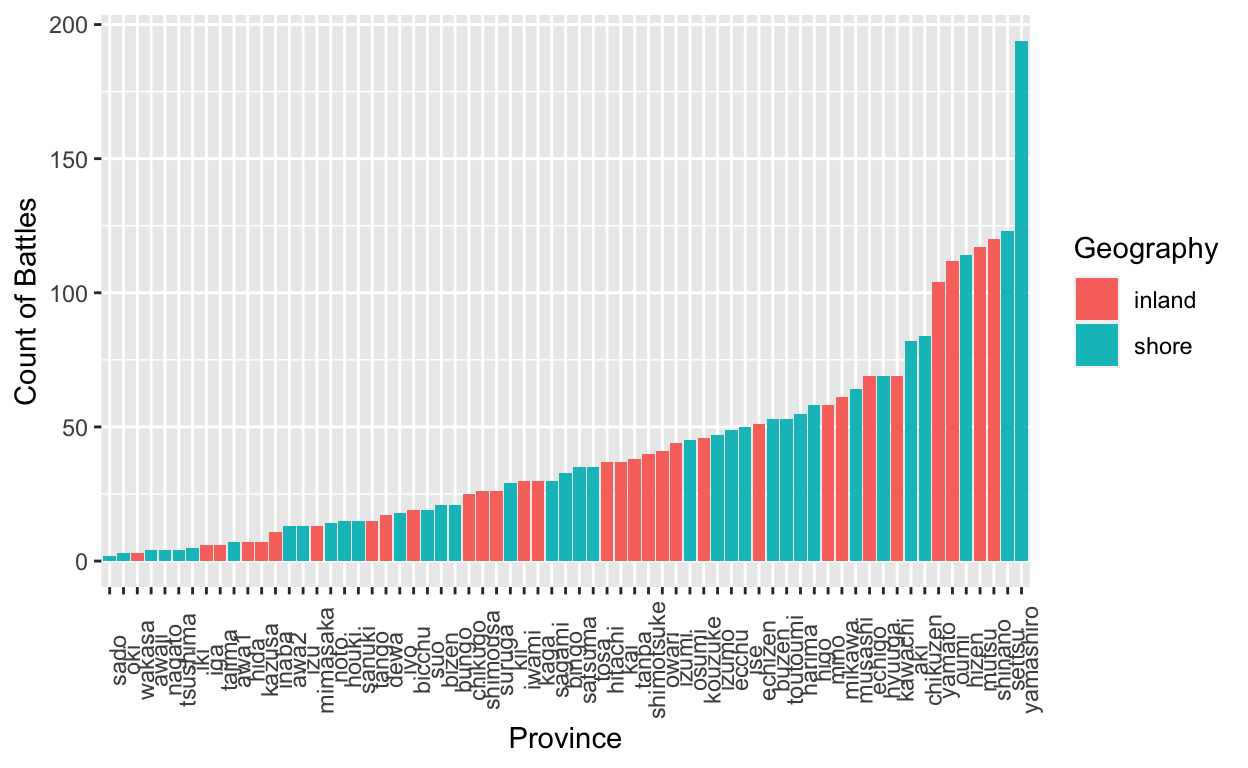
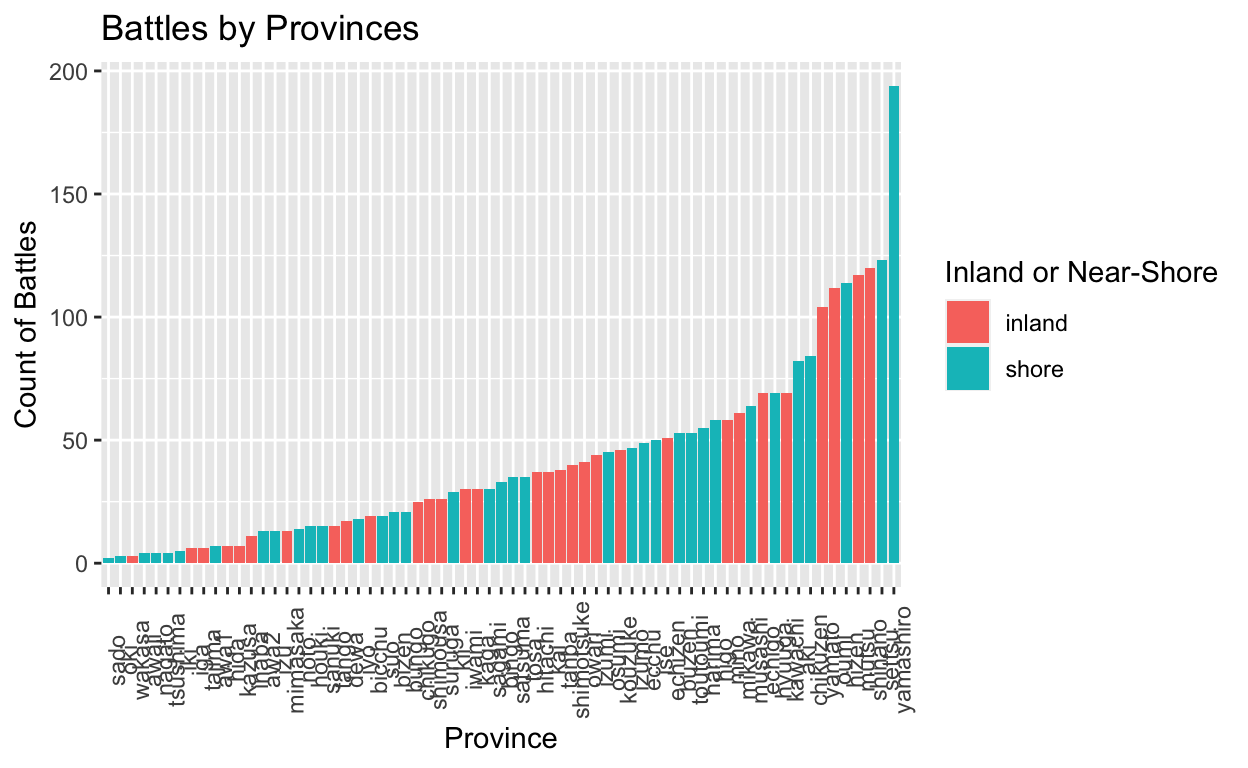
h

Changed region(s): [[0.0, 0.0, 0.9688, 1.0]]

diff --git a/index.html b/index.html
@@ -1543,15 +1543,16 @@ code span.wa { color: #5e5e5e; font-style: italic; } /* Warning */
 </div>
 
 <div class="d-article">
-<h2 id="project-overview">Project Overview</h2>
+<h2 id="introduction">Introduction</h2>
 <p>I use the data from this study:</p>
 <p>Nicholas D. Anderson, “Introducing the Warring States Japan Battle Data,” International Interactions, Latest articles (2022) <a href="https://doi.org/10.1080/03050629.2023.2149514" class="uri">https://doi.org/10.1080/03050629.2023.2149514</a></p>
-<p>My key research question is: How did geographic features and recent conflicts in adjacent provinces influence battle strategies and outcomes in Japan’s Warring States period?</p>
-<p>My hypothesis is that provinces’ geographic characteristics (terrain ruggedness, purely inland or near shore, adjacency to recently conflicted areas), could have influenced strategies (use of cavalries) and outcomes (number of casualties).</p>
+<p>My key research question is:
+How did geographic features and recent conflicts in adjacent provinces influence battle strategies and outcomes in Japan’s Warring States period?</p>
+<p>My hypothesis is that provinces’ geographic characteristics (terrain ruggedness, purely inland or near shore, adjacency to recently conflicted areas), could have influenced strategies (use of cavalries) and outcomes of battles (number of casualties).</p>
 <p>This is important as it provides insights into how geography and regional conflict dynamics influenced historical warfare.</p>
-<p>My study is cross-sectional, as it analyzes data collected from a specific point in time (1467 - 1600) without manipulating the environment, and does not have any intervention or treatment.
-I assume this is typical in the study of history, when we are dealing with pre-modern historical data.</p>
-<p>I am combining three datasets from the same study to conduct my regression tests.
+<p>My study is cross-sectional, as it analyzes data collected from a specific point in time (1467 - 1600) without manipulating the environment or provide any intervention or treatment across time.
+I assume this is typical in the field of history, especially for scholars dealing with pre-modern historical data.</p>
+<p>I am combining three datasets collected by the same scholar in his research to conduct my regressions.
 These are the pre-existing variables I am going to mainly look at.</p>
 <table>
 <colgroup>
@@ -1660,7 +1661,7 @@ Such is the limitation of digital humanities (or, if you count history as social
 <p>Therefore, we need to first look at the data, do some cleaning (I am converting several variables into binary variables), before attempting at any regression.</p>
 <p><strong>Descriptive: Getting familiar with Japan’s Warring State Battles</strong></p>
 <ol type="1">
-<li><em>Inland or Near-Shore</em></li>
+<li><em>Geography: Inland or Near-Shore</em></li>
 </ol>
 <p>I am now interested about whether battles took place more often in purely inland provinces or near-shore provinces.</p>
 <p>I am curious about this because of Japan’s geographical feature as an archipelago.
@@ -1694,9 +1695,10 @@ I therefore wonder if we can see a significant difference in the total number of
 <span>  <span class='fu'><a href='https://dplyr.tidyverse.org/reference/summarise.html'>summarise</a></span><span class='op'>(</span>count <span class='op'>=</span> <span class='fu'><a href='https://dplyr.tidyverse.org/reference/context.html'>n</a></span><span class='op'>(</span><span class='op'>)</span><span class='op'>)</span> <span class='op'>|&gt;</span></span>
 <span>  <span class='fu'><a href='https://dplyr.tidyverse.org/reference/top_n.html'>top_n</a></span><span class='op'>(</span><span class='fl'>10</span>, <span class='va'>count</span><span class='op'>)</span> <span class='op'>|&gt;</span></span>
 <span>  <span class='fu'><a href='https://dplyr.tidyverse.org/reference/arrange.html'>arrange</a></span><span class='op'>(</span><span class='fu'><a href='https://dplyr.tidyverse.org/reference/desc.html'>desc</a></span><span class='op'>(</span><span class='va'>count</span><span class='op'>)</span><span class='op'>)</span> </span>
-<span><span class='fu'>knitr</span><span class='fu'>::</span><span class='fu'><a href='https://rdrr.io/pkg/knitr/man/kable.html'>kable</a></span><span class='op'>(</span><span class='va'>tb_most_battle_provinces</span>, title <span class='op'>=</span> <span class='st'>"provinces where the most battles took place"</span><span class='op'>)</span></span></code></pre>
+<span><span class='fu'>knitr</span><span class='fu'>::</span><span class='fu'><a href='https://rdrr.io/pkg/knitr/man/kable.html'>kable</a></span><span class='op'>(</span><span class='va'>tb_most_battle_provinces</span>, caption <span class='op'>=</span> <span class='st'>"provinces where the most battles took place"</span><span class='op'>)</span></span></code></pre>
 </div>
 <table>
+<caption><span id="tab:unnamed-chunk-4">Table 1: </span>provinces where the most battles took place</caption>
 <thead>
 <tr class="header">
 <th style="text-align: left;">province_name</th>
@@ -1755,7 +1757,6 @@ I therefore wonder if we can see a significant difference in the total number of
 </tbody>
 </table>
 </div>
-From least to most, where did the battles take place?
 <div class="layout-chunk" data-layout="l-body">
 <div class="sourceCode">
 <pre class="sourceCode r"><code class="sourceCode r"><span><span class='va'>plot_provinces</span> <span class='op'>&lt;-</span> <span class='va'>warringstate</span> <span class='op'>|&gt;</span></span>
@@ -1765,7 +1766,7 @@ From least to most, where did the battles take place?
 <span>  <span class='fu'><a href='https://dplyr.tidyverse.org/reference/arrange.html'>arrange</a></span><span class='op'>(</span><span class='fu'><a href='https://dplyr.tidyverse.org/reference/desc.html'>desc</a></span><span class='op'>(</span><span class='va'>count</span><span class='op'>)</span><span class='op'>)</span> <span class='op'>|&gt;</span></span>
 <span>  <span class='fu'><a href='https://ggplot2.tidyverse.org/reference/ggplot.html'>ggplot</a></span><span class='op'>(</span><span class='fu'><a href='https://ggplot2.tidyverse.org/reference/aes.html'>aes</a></span><span class='op'>(</span>x <span class='op'>=</span> <span class='fu'><a href='https://rdrr.io/r/stats/reorder.factor.html'>reorder</a></span><span class='op'>(</span><span class='va'>province_name</span>, <span class='va'>count</span><span class='op'>)</span>, y <span class='op'>=</span> <span class='va'>count</span>, fill <span class='op'>=</span> <span class='va'>geography</span><span class='op'>)</span><span class='op'>)</span> <span class='op'>+</span></span>
 <span>  <span class='fu'><a href='https://ggplot2.tidyverse.org/reference/geom_bar.html'>geom_bar</a></span><span class='op'>(</span>stat <span class='op'>=</span> <span class='st'>"identity"</span>, binwidth <span class='op'>=</span> <span class='fl'>1</span><span class='op'>)</span> <span class='op'>+</span></span>
-<span>  <span class='fu'><a href='https://ggplot2.tidyverse.org/reference/labs.html'>labs</a></span><span class='op'>(</span>x <span class='op'>=</span> <span class='st'>"Province"</span>, y <span class='op'>=</span> <span class='st'>"Count of Battles"</span>, fill <span class='op'>=</span> <span class='st'>"Geography"</span><span class='op'>)</span> <span class='op'>+</span></span>
+<span>  <span class='fu'><a href='https://ggplot2.tidyverse.org/reference/labs.html'>labs</a></span><span class='op'>(</span>x <span class='op'>=</span> <span class='st'>"Province"</span>, y <span class='op'>=</span> <span class='st'>"Count of Battles"</span>, fill <span class='op'>=</span> <span class='st'>"Inland or Near-Shore"</span>, title <span class='op'>=</span> <span class='st'>"Battles by Provinces"</span><span class='op'>)</span> <span class='op'>+</span></span>
 <span>  <span class='fu'><a href='https://ggplot2.tidyverse.org/reference/theme.html'>theme</a></span><span class='op'>(</span>axis.text.x <span class='op'>=</span> <span class='fu'><a href='https://ggplot2.tidyverse.org/reference/element.html'>element_text</a></span><span class='op'>(</span>angle <span class='op'>=</span> <span class='fl'>90</span>, hjust <span class='op'>=</span> <span class='fl'>0.5</span><span class='op'>)</span><span class='op'>)</span></span>
 <span></span>
 <span><span class='va'>plot_provinces</span></span></code></pre>
@@ -1774,14 +1775,15 @@ From least to most, where did the battles take place?
 </div>
 <div class="layout-chunk" data-layout="l-body">
 <div class="sourceCode">
-<pre class="sourceCode r"><code class="sourceCode r"><span><span class='co'>#count the total number of battles in inland provinces and shore provinces}</span></span>
+<pre class="sourceCode r"><code class="sourceCode r"><span><span class='co'>#count the total number of battles in inland provinces and shore provinces</span></span>
 <span><span class='va'>tb_inlandshore</span> <span class='op'>&lt;-</span> <span class='va'>warringstate</span> <span class='op'>|&gt;</span></span>
 <span>  <span class='fu'><a href='https://dplyr.tidyverse.org/reference/group_by.html'>group_by</a></span><span class='op'>(</span><span class='va'>geography</span><span class='op'>)</span> <span class='op'>|&gt;</span></span>
 <span>  <span class='fu'><a href='https://dplyr.tidyverse.org/reference/count.html'>count</a></span><span class='op'>(</span><span class='op'>)</span> <span class='op'>|&gt;</span></span>
 <span>  <span class='fu'><a href='https://tidyr.tidyverse.org/reference/drop_na.html'>drop_na</a></span><span class='op'>(</span><span class='op'>)</span></span>
-<span><span class='fu'>knitr</span><span class='fu'>::</span><span class='fu'><a href='https://rdrr.io/pkg/knitr/man/kable.html'>kable</a></span><span class='op'>(</span><span class='va'>tb_inlandshore</span><span class='op'>)</span></span></code></pre>
+<span><span class='fu'>knitr</span><span class='fu'>::</span><span class='fu'><a href='https://rdrr.io/pkg/knitr/man/kable.html'>kable</a></span><span class='op'>(</span><span class='va'>tb_inlandshore</span>, caption <span class='op'>=</span> <span class='st'>"no. of battles in inland vs shore provinces"</span><span class='op'>)</span></span></code></pre>
 </div>
 <table>
+<caption><span id="tab:unnamed-chunk-6">Table 2: </span>no. of battles in inland vs shore provinces</caption>
 <thead>
 <tr class="header">
 <th style="text-align: left;">geography</th>
@@ -1818,9 +1820,9 @@ From least to most, where did the battles take place?
 <p>We see a significant rise in numbers of battles after the 1550s, and the number of battles peaking at around 1580s, both in inland provinces and shore provinces.</p>
 <p>We also see a much higher number of shore-province battles in the beginning of the warring state period, which may be an indicator that by then, these battles were not so politically charged but simply out of necessity–for resources, which, in the case of premodern Japan, mostly came from the sea.</p>
 <p>It may also be reflect the development of warring technologies from the 1467s to the 1500s, which results in a proportional rise in inland battles.</p>
-<p><em>Side Note: I decided to not use the area plot to demonstrate the proportions because there are 124 battles which took place in provinces unknown (aka, geography = NA). Although the number is comparatively small, and should not significantly impact the general trends as shown here in these smoothed-lines, they do play a role if I were to make an area plot with the y-axis being 1.)</em></p>
+<p><em>Side Note: I decided to not use the area plot to demonstrate the proportions because there are 124 battles which took place in provinces unknown (aka, geography = NA). Although the number is comparatively small, and should not significantly impact the general trends as shown here in these smoothed-lines, they do play a role if I were to make an area plot with the y-axis being 1.</em></p>
 <ol start="2" type="1">
-<li><em>Technical advancement in battle: Cavalry</em></li>
+<li><em>Cavalry</em></li>
 </ol>
 <p>Let’s look at the dataset and see how to extract the information whether a battle has cavalry involved.</p>
 <div class="layout-chunk" data-layout="l-body">
@@ -1830,7 +1832,7 @@ From least to most, where did the battles take place?
 <span><span class='fu'>knitr</span><span class='fu'>::</span><span class='fu'><a href='https://rdrr.io/pkg/knitr/man/kable.html'>kable</a></span><span class='op'>(</span><span class='va'>forces_data_type</span>, caption <span class='op'>=</span> <span class='st'>"Examples of Types of Forces Data"</span><span class='op'>)</span></span></code></pre>
 </div>
 <table>
-<caption><span id="tab:unnamed-chunk-7">Table 1: </span>Examples of Types of Forces Data</caption>
+<caption><span id="tab:unnamed-chunk-7">Table 3: </span>Examples of Types of Forces Data</caption>
 <thead>
 <tr class="header">
 <th style="text-align: left;">x</th>
@@ -1858,9 +1860,8 @@ From least to most, where did the battles take place?
 </tbody>
 </table>
 </div>
-<p>We can see that this variable is categorical, with a diversity of information.
-We are mainly interested in those that has “cavalry” involved here.</p>
-<p>I am using the “str_detect” function to create a new variable <code>cavalry</code> denoting whether a battle has cavalry involved, as well as <code>cavalryA</code>, whether side A has cavalry, and <code>cavalryB</code>, whether side B uses cavalry.</p>
+<p>We can see that the forces variables (<code>forcesA</code> and <code>forcesB</code>) are categorical, and consist of a myriad of information.
+Since we are most interested in those that has “cavalry” involved here, I use the “str_detect” function to create a new variable <code>cavalry</code> denoting whether a battle has cavalry involved, as well as <code>cavalryA</code>, whether side A has cavalry, and <code>cavalryB</code>, whether side B uses cavalry.</p>
 <div class="layout-chunk" data-layout="l-body">
 <div class="sourceCode">
 <pre class="sourceCode r"><code class="sourceCode r"><span><span class='co'>#extracting information about cavalry involved</span></span>
@@ -1872,9 +1873,10 @@ We are mainly interested in those that has “cavalry” involved here.</p>
 <span><span class='co'>#counting the number of cavalry involved battles in total</span></span>
 <span><span class='va'>cavalrytotal</span> <span class='op'>&lt;-</span> <span class='va'>warringstate</span> <span class='op'>|&gt;</span></span>
 <span>  <span class='fu'><a href='https://dplyr.tidyverse.org/reference/count.html'>count</a></span><span class='op'>(</span><span class='va'>cavalry</span> <span class='op'>==</span> <span class='fl'>1</span><span class='op'>)</span></span>
-<span><span class='fu'>knitr</span><span class='fu'>::</span><span class='fu'><a href='https://rdrr.io/pkg/knitr/man/kable.html'>kable</a></span><span class='op'>(</span><span class='va'>cavalrytotal</span><span class='op'>)</span></span></code></pre>
+<span><span class='fu'>knitr</span><span class='fu'>::</span><span class='fu'><a href='https://rdrr.io/pkg/knitr/man/kable.html'>kable</a></span><span class='op'>(</span><span class='va'>cavalrytotal</span>, caption <span class='op'>=</span> <span class='st'>"Cavalry Involvement (TRUE = No. of Cavalry-involved Battle)"</span><span class='op'>)</span></span></code></pre>
 </div>
 <table>
+<caption><span id="tab:unnamed-chunk-8">Table 4: </span>Cavalry Involvement (TRUE = No. of Cavalry-involved Battle)</caption>
 <thead>
 <tr class="header">
 <th style="text-align: left;">cavalry == 1</th>
@@ -1897,7 +1899,7 @@ We are mainly interested in those that has “cavalry” involved here.</p>
 </tbody>
 </table>
 <div class="sourceCode">
-<pre class="sourceCode r"><code class="sourceCode r"><span><span class='co'>#plotting the total number of cavalry battles</span></span>
+<pre class="sourceCode r"><code class="sourceCode r"><span><span class='co'>#plotting the number of cavalry battles over years</span></span>
 <span><span class='va'>cavalry_battle</span> <span class='op'>&lt;-</span> <span class='va'>warringstate</span> <span class='op'>|&gt;</span></span>
 <span>  <span class='fu'><a href='https://dplyr.tidyverse.org/reference/filter.html'>filter</a></span><span class='op'>(</span><span class='va'>cavalry</span> <span class='op'>==</span> <span class='fl'>1</span><span class='op'>)</span> <span class='op'>|&gt;</span></span>
 <span>  <span class='fu'><a href='https://dplyr.tidyverse.org/reference/group_by.html'>group_by</a></span><span class='op'>(</span><span class='va'>year</span><span class='op'>)</span><span class='op'>|&gt;</span></span>
@@ -1906,7 +1908,7 @@ We are mainly interested in those that has “cavalry” involved here.</p>
 <span>  <span class='fu'><a href='https://ggplot2.tidyverse.org/reference/geom_point.html'>geom_point</a></span><span class='op'>(</span><span class='op'>)</span> <span class='op'>+</span></span>
 <span>  <span class='fu'><a href='https://ggplot2.tidyverse.org/reference/geom_smooth.html'>geom_smooth</a></span><span class='op'>(</span>na.rm <span class='op'>=</span> <span class='cn'>FALSE</span><span class='op'>)</span> <span class='op'>+</span></span>
 <span>    <span class='fu'><a href='https://ggplot2.tidyverse.org/reference/labs.html'>labs</a></span><span class='op'>(</span></span>
-<span>    title <span class='op'>=</span> <span class='st'>"Number of Cavalry Battles"</span>,</span>
+<span>    title <span class='op'>=</span> <span class='st'>"Number of Cavalry Battles over Years"</span>,</span>
 <span>    x <span class='op'>=</span> <span class='st'>"Year"</span>,</span>
 <span>    y <span class='op'>=</span> <span class='st'>"No. of Cavalry Battles"</span></span>
 <span>  <span class='op'>)</span></span>
@@ -1942,18 +1944,93 @@ We are mainly interested in those that has “cavalry” involved here.</p>
 </div>
 <p>Analysis:</p>
 <p>The proportion of cavalry battles is so small over all recorded years, which makes me less confident to interpret the first “number of cavalry battles over years” plot as precisely representative of the history.</p>
-<p>However, the smooth line in the proportion plot is indicative of the general trend of cavalry use over the years.
-The observation of the sharp rise in cavalry proportion from the 1467s to the 1500s, matches with our assumption that the rise in cavalry……</p>
+<p>The smooth line in the proportion plot is indicative of the general trend of cavalry use over the years.
+The observation of the sharp rise in cavalry proportion from the 1467s to the 1500s, matches with our assumption that the rise in cavalry may be correlated to the rise in land battle proportion among all battles.
+Nevertheless, we must realize that most of the battles recorded here, we simply DON’T KNOW whether they had cavalries involved or not. This is a fundamental limitation to half of my research question.</p>
 <p><strong>Regression</strong></p>
 <p><em>#Cavalry and recent battle with adjacent province</em></p>
-<p>Here I look at the usage of cavalry’s relationship to whether there had been recent battle with adjacent provinces, holding constant confounders such as <code>year</code>, the number of <code>neighbors</code> (how many neighboring provinces was this province adjacent to.)</p>
-<p>In his paper, Anderson explains, “<code>adjacent_battle</code> simply indicates whether a province sharing a land border with a given province experienced conflict within the past 24 months; <code>road_battle</code> adds the condition that this adjacent province also shares a major road with the province in question.” (Anderson, 7)</p>
+<p>Here I look at the usage of cavalry’s relationship to the geographical features of a battlefield (terrain ruggedness, shore or inland), and whether there had been recent battle with adjacent provinces, holding constant confounders such as <code>year</code>, and the number of <code>neighbors</code> (how many neighboring provinces was this province adjacent to.)</p>
+<p>In his paper, Anderson explains, “<code>adjacent_battle</code> simply indicates whether a province sharing a land border with a given province experienced conflict within the past 24 months; <code>road_battle</code> adds the condition that this adjacent province also shares a major road with the province in question.” (Anderson, 7) Since adjacent_battle would always include all road_battles, I am not so concerned about road battles here.</p>
+Note, one of the independent variable here, <code>geography</code>, is a two-level categorical variable.
+When calculated in the regression model, R is helping me converting it into a binary, dummy variable.
+As you can identify from the printed regression outputs, it is calculated based on the assumption that shore = 1, and inland = 0.
 <div class="layout-chunk" data-layout="l-body">
 <div class="sourceCode">
-<pre class="sourceCode r"><code class="sourceCode r"><span><span class='va'>lm_cavalry</span> <span class='op'>&lt;-</span> </span>
+<pre class="sourceCode r"><code class="sourceCode r"><span><span class='va'>lm_cavalry1</span> <span class='op'>&lt;-</span></span>
+<span>  <span class='fu'><a href='https://rdrr.io/r/stats/lm.html'>lm</a></span><span class='op'>(</span><span class='va'>cavalry</span> <span class='op'>~</span> <span class='va'>terrain_ruggedness</span> <span class='op'>+</span> <span class='va'>geography</span>, data <span class='op'>=</span> <span class='va'>warringstate</span><span class='op'>)</span></span>
+<span></span>
+<span><span class='fu'><a href='https://generics.r-lib.org/reference/tidy.html'>tidy</a></span><span class='op'>(</span><span class='va'>lm_cavalry1</span><span class='op'>)</span> <span class='op'>|&gt;</span> </span>
+<span>  <span class='fu'>knitr</span><span class='fu'>::</span><span class='fu'><a href='https://rdrr.io/pkg/knitr/man/kable.html'>kable</a></span><span class='op'>(</span>digits <span class='op'>=</span> <span class='fl'>3</span><span class='op'>)</span></span></code></pre>
+</div>
+<table>
+<thead>
+<tr class="header">
+<th style="text-align: left;">term</th>
+<th style="text-align: right;">estimate</th>
+<th style="text-align: right;">std.error</th>
+<th style="text-align: right;">statistic</th>
+<th style="text-align: right;">p.value</th>
+</tr>
+</thead>
+<tbody>
+<tr class="odd">
+<td style="text-align: left;">(Intercept)</td>
+<td style="text-align: right;">0.267</td>
+<td style="text-align: right;">0.165</td>
+<td style="text-align: right;">1.621</td>
+<td style="text-align: right;">0.109</td>
+</tr>
+<tr class="even">
+<td style="text-align: left;">terrain_ruggedness</td>
+<td style="text-align: right;">-0.001</td>
+<td style="text-align: right;">0.001</td>
+<td style="text-align: right;">-0.902</td>
+<td style="text-align: right;">0.370</td>
+</tr>
+<tr class="odd">
+<td style="text-align: left;">geographyshore</td>
+<td style="text-align: right;">0.221</td>
+<td style="text-align: right;">0.103</td>
+<td style="text-align: right;">2.154</td>
+<td style="text-align: right;">0.034</td>
+</tr>
+</tbody>
+</table>
+<div class="sourceCode">
+<pre class="sourceCode r"><code class="sourceCode r"><span><span class='fu'><a href='https://rdrr.io/r/base/summary.html'>summary</a></span><span class='op'>(</span><span class='va'>lm_cavalry1</span><span class='op'>)</span></span></code></pre>
+</div>
+<pre><code>
+Call:
+lm(formula = cavalry ~ terrain_ruggedness + geography, data = warringstate)
+
+Residuals:
+    Min      1Q  Median      3Q     Max 
+-0.3866 -0.3591 -0.1616  0.5969  0.8743 
+
+Coefficients:
+                     Estimate Std. Error t value Pr(&gt;|t|)  
+(Intercept)         0.2667241  0.1645314   1.621   0.1091  
+terrain_ruggedness -0.0007686  0.0008520  -0.902   0.3698  
+geographyshore      0.2211681  0.1026634   2.154   0.0343 *
+---
+Signif. codes:  0 &#39;***&#39; 0.001 &#39;**&#39; 0.01 &#39;*&#39; 0.05 &#39;.&#39; 0.1 &#39; &#39; 1
+
+Residual standard error: 0.4404 on 77 degrees of freedom
+  (2809 observations deleted due to missingness)
+Multiple R-squared:  0.06348,   Adjusted R-squared:  0.03916 
+F-statistic:  2.61 on 2 and 77 DF,  p-value: 0.08005</code></pre>
+</div>
+<p>Analysis:
+The positive intercept coefficient is neither significant statistically (p = 0.109) nor in reality, as it shows the baseline of cavalry presence, which is not interesting with our limited and particularly historically-concerned data.
+The coefficient -0.001 of variable <code>terrain_ruggedness</code> suggests that, holding constant the other geographical feature (shore or inland), the increase in the land’s ruggedness is associated with to an extremely slight decrease in the likelihood of cavalry use.
+However, this is not statistically significant (p = 0.370), meaning that we can’t confidently infer this correlation.
+The positive coefficient 0.221 of <code>geography</code> suggests that, holding constant the terrain ruggedness, the shore provinces is associated with a slight higher likelihood of cavalry use.</p>
+<div class="layout-chunk" data-layout="l-body">
+<div class="sourceCode">
+<pre class="sourceCode r"><code class="sourceCode r"><span><span class='va'>lm_cavalry2</span> <span class='op'>&lt;-</span> </span>
 <span>  <span class='fu'><a href='https://rdrr.io/r/stats/lm.html'>lm</a></span><span class='op'>(</span><span class='va'>cavalry</span> <span class='op'>~</span> <span class='va'>adjacent_battle</span> <span class='op'>+</span> <span class='va'>year</span> <span class='op'>+</span> <span class='va'>neighbors</span>, data <span class='op'>=</span> <span class='va'>warringstate</span><span class='op'>)</span> </span>
 <span></span>
-<span><span class='fu'><a href='https://generics.r-lib.org/reference/tidy.html'>tidy</a></span><span class='op'>(</span><span class='va'>lm_cavalry</span><span class='op'>)</span> <span class='op'>|&gt;</span> </span>
+<span><span class='fu'><a href='https://generics.r-lib.org/reference/tidy.html'>tidy</a></span><span class='op'>(</span><span class='va'>lm_cavalry2</span><span class='op'>)</span> <span class='op'>|&gt;</span> </span>
 <span>  <span class='fu'>knitr</span><span class='fu'>::</span><span class='fu'><a href='https://rdrr.io/pkg/knitr/man/kable.html'>kable</a></span><span class='op'>(</span>digits <span class='op'>=</span> <span class='fl'>3</span><span class='op'>)</span></span></code></pre>
 </div>
 <table>
@@ -1998,7 +2075,7 @@ The observation of the sharp rise in cavalry proportion from the 1467s to the 15
 </tbody>
 </table>
 <div class="sourceCode">
-<pre class="sourceCode r"><code class="sourceCode r"><span><span class='fu'><a href='https://rdrr.io/r/base/summary.html'>summary</a></span><span class='op'>(</span><span class='va'>lm_cavalry</span><span class='op'>)</span></span></code></pre>
+<pre class="sourceCode r"><code class="sourceCode r"><span><span class='fu'><a href='https://rdrr.io/r/base/summary.html'>summary</a></span><span class='op'>(</span><span class='va'>lm_cavalry2</span><span class='op'>)</span></span></code></pre>
 </div>
 <pre><code>
 Call:
@@ -2023,9 +2100,9 @@ Multiple R-squared:  0.1445,    Adjusted R-squared:  0.1107
 F-statistic: 4.279 on 3 and 76 DF,  p-value: 0.007602</code></pre>
 </div>
 <p>Analysis:
-The positive coefficient (7.029) suggests a baseline presence of cavalry in battles, which is statistically significant (p = 0.006), but not meaningful or interesting in reality.
-The negative coefficient -0.055 of variable <code>adjacent_battle</code> suggests that, holding constant the time (year) and the number of adjacent provinces (neighbors), the existence of a recent battle in adjacent provinces is associated to a slight decrease in the likelihood of cavalry use in a current battel. However, this is not statistically significant (p = 0.745), meaning that we can’t confidently infer this correlation.
-This suggests that over time, the presence of cavalry in battles decreased, but there is no strong evidence from this model to suggest that the presence of cavalry is influenced by conflicts in neighboring provinces or the number of neighboring provinces.</p>
+The positive intercept coefficient (7.029) suggests a baseline presence of cavalry in battles, which is statistically significant (p = 0.006), but not meaningful or interesting in reality.
+The negative coefficient -0.055 of variable <code>adjacent_battle</code> suggests that, holding constant the time (year) and the number of adjacent provinces (neighbors), the existence of a recent battle in adjacent provinces is associated to a slight decrease in the likelihood of cavalry use in a current battle. However, this is not statistically significant (p = 0.745), meaning that we can’t confidently infer this correlation.</p>
+<p>This suggests that over time, the presence of cavalry in battles decreased, but there is no strong evidence from this model to suggest that the presence of cavalry is influenced by conflicts in neighboring provinces or the number of neighboring provinces.</p>
 <p><em>#Whether victory of either side (I will do the same test for both Victory A and Victory B) is correlated to the use of cavalry in the battle, holding constanct whether either side is joined by coalition, and who initiated the fight.</em></p>
 <div class="layout-chunk" data-layout="l-body">
 <div class="sourceCode">
@@ -2201,7 +2278,7 @@ F-statistic: 1.809 on 4 and 55 DF,  p-value: 0.1403</code></pre>
 <span><span class='fu'>knitr</span><span class='fu'>::</span><span class='fu'><a href='https://rdrr.io/pkg/knitr/man/kable.html'>kable</a></span><span class='op'>(</span><span class='va'>casualties_data_type</span>, caption <span class='op'>=</span> <span class='st'>"Examples of Types of Casualties data"</span><span class='op'>)</span></span></code></pre>
 </div>
 <table>
-<caption><span id="tab:unnamed-chunk-12">Table 2: </span>Examples of Types of Casualties data</caption>
+<caption><span id="tab:unnamed-chunk-13">Table 5: </span>Examples of Types of Casualties data</caption>
 <thead>
 <tr class="header">
 <th style="text-align: left;">x</th>
@@ -2367,7 +2444,7 @@ The coefficient of 391.376 for variable <code>adjacent_battle</code> indicates a
 Especially, with vague data from historical documents being further abstracted for the purpose of calculation (which is what I did during data cleaning), makes these outcomes less meaningful and trustworthy.
 The field of digital humanities is filled with unprocessed data, many of which is vague in nature and unable to be checked in the near future.
 However, statistical thinking, I believe, should still be more valued when doing historical analysis and interpretations.</p>
-<div class="sourceCode" id="cb5"><pre class="sourceCode r distill-force-highlighting-css"><code class="sourceCode r"></code></pre></div>
+<div class="sourceCode" id="cb6"><pre class="sourceCode r distill-force-highlighting-css"><code class="sourceCode r"></code></pre></div>
 <!--radix_placeholder_article_footer-->
 <!--/radix_placeholder_article_footer-->
 </div>
